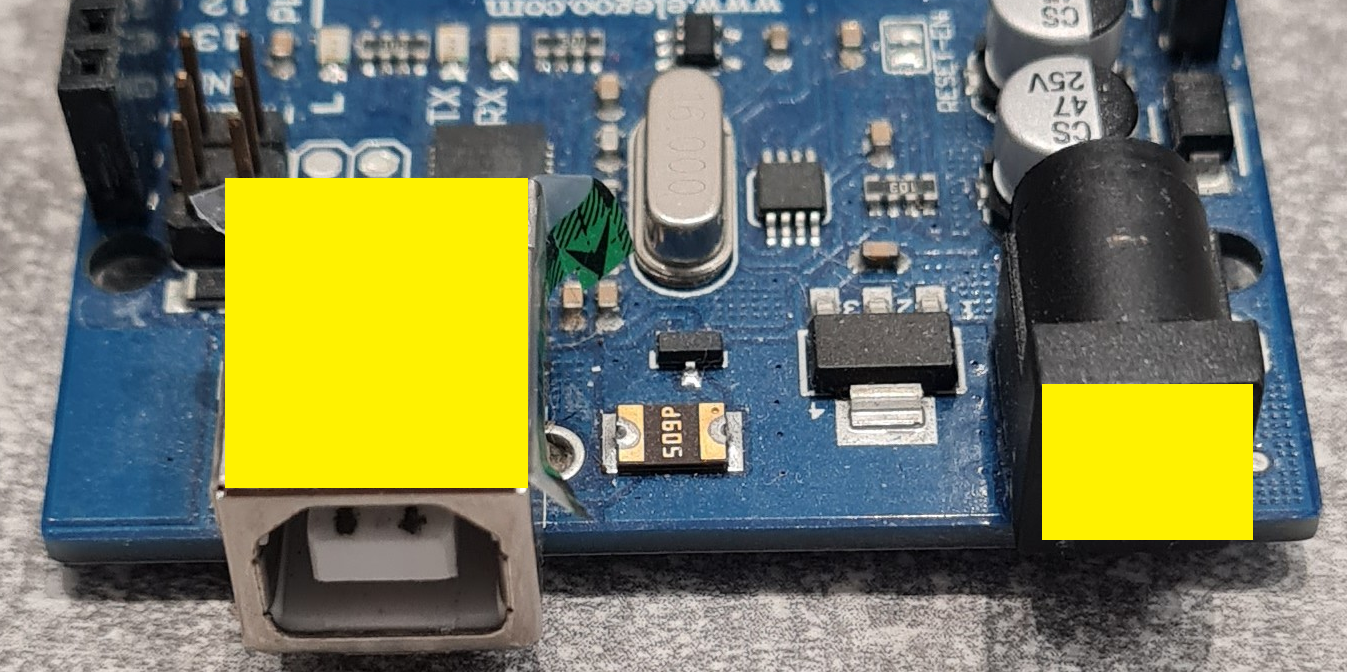
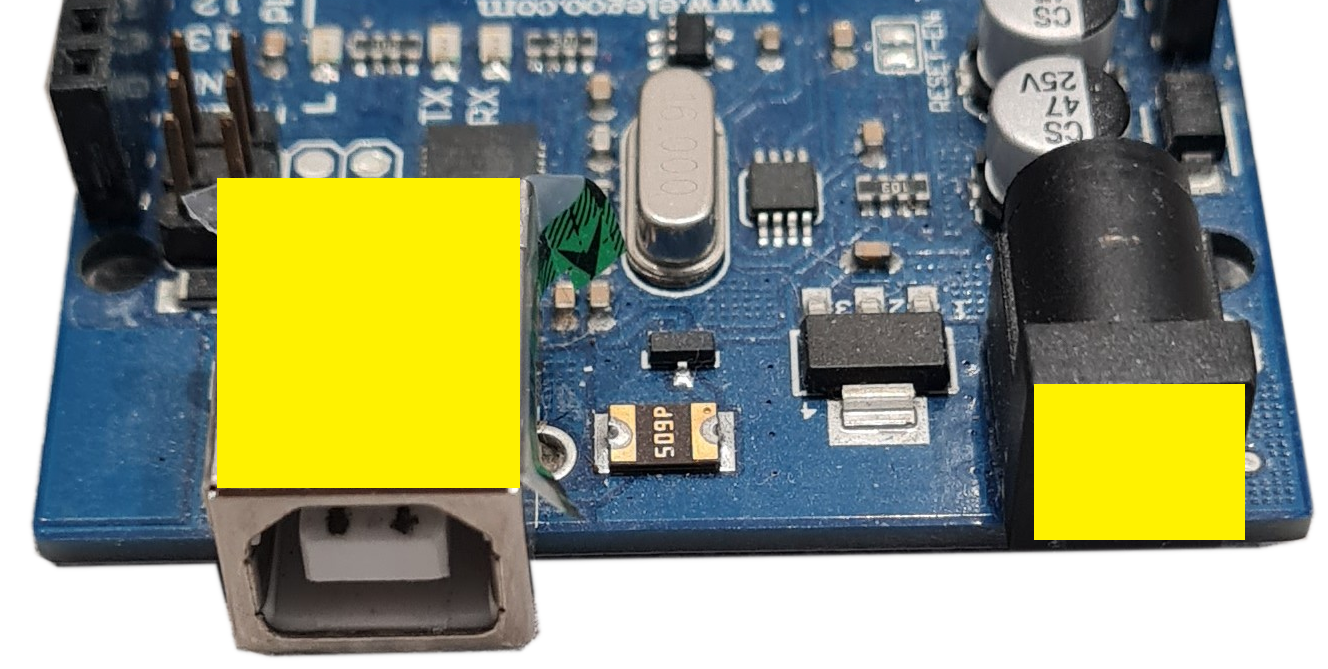
odds and ends

diff --git a/docs/_static/css/dccex_theme.css b/docs/_static/css/dccex_theme.css
@@ -748,3 +748,15 @@ a.external-link-icon::after {
 .gslide-image img {
     background: #00353d !important;
 }
+
+.glightbox-clean .gdesc-inner {
+    padding-top: 6px !important;
+    padding-right: 20px !important;
+    padding-bottom: 6px !important;
+    padding-left: 20px !important;
+}
+
+.glightbox-clean .gslide-title {
+    font-weight: 700 !important;
+    margin-bottom: 6px !important;
+}

diff --git a/docs/prepare-to-use/installer/install-cs.md b/docs/prepare-to-use/installer/install-cs.md
@@ -6,30 +6,30 @@ To proceed, click the Select your device button.
 
 ## Device Selection
 
-![device selection](/_static/images/ex-installer/select-device.png)
+![device selection](../../_static/images/ex-installer/select-device.png){ width=600px }
 
 A scan for devices will start automatically. Usually the installer is able to work out the details automatically.
 
-If you see No devices found it means that you either
+If you see No devices found it means that you either:
 
 - have not connected the device to the computer, connect it now then click the Scan for Devices button again
 - the device was not recognised by the computer, this may be a bad USB cable or a missing USB driver. Refer to the Diagnosing Basic Problems page for assistance.
 
-Next select the USB port (if several) and the type of device you wish to load the EX‑CommandStation software onto. EX‑Installer will attempt to work out both of these for you, but it may need assistance.
+Next select the USB port (if several) and the type of device you wish to load the **EX‑CommandStation** software onto. EX‑Installer will attempt to work out both of these for you, but it may need assistance.
 
 **NOTE:** For the EX‑CSB1 select 'DCC-EX EX-CSB1' from the drop-down list.
 
-Now press the Select Product To Install button and click on the EX‑CommandStation logo to proceed.
+Now press the Select Product To Install button and click on the **EX‑CommandStation** logo to proceed.
 
 ## Version Selection
 
-![select version](/_static/images/ex-installer/select-version.png)
+![select version](../../_static/images/ex-installer/select-version.png){ width=600px }
 
-Select which version of the EX‑CommandStation software to load onto your hardware. If you are unsure, or unless you have been otherwise directed by the support team, we recommend you select Latest Production.
+Select which version of the **EX‑CommandStation** software to load onto your hardware. If you are unsure, or unless you have been otherwise directed by the support team, we recommend you select Latest Production.
 
 ## Configuration
 
-![config](/_static/images/ex-installer/config.png)
+![config](../../_static/images/ex-installer/config.png){ width=600px }
 
 When loading for the first time, you should use Configure Options. Alternatively you may [reuse your previous files](#stored-configuration-files).
 
@@ -41,7 +41,7 @@ You must select the motor shield that you have installed. The installer can't de
 
 - For the EX‑CSB1 alone select 'EX-CSB1' or 'EXCSB1_WITH_EX8874' if you have added the optional [EX-MotorShield8874](../../products/ex-motorshield8874/ex-motorshield8874.md).
 
-![motor_driver](/_static/images/ex-installer/motor-driver.png)
+![motor_driver](../../_static/images/ex-installer/motor-driver.png){ width=600px }
 
 ## Other options
 
@@ -49,20 +49,20 @@ You should select "Disable EEPROM support" for most cases.
 
 ### Optional LCD or OLED display
 
-The EX‑CSB1 will generally be supplied with an OLED 128 X 64
+The **EX‑CSB1** will generally be supplied with an OLED 128 X 64
 
 If you have installed and optional OLED or LED display, enable [I have a display] option, which will present you with a drop-down list to select the type of display you have.
 
-![display-option](/_static/images/ex-installer/display-option.png)
+![display-option](../../_static/images/ex-installer/display-option.png){ width=600px }
 
 ### Optional Wi-fi
 
 If you are using an **EX-CSB1** or other board with integrated Wi-Fi, or have installed and optional Wi-Fi board you need to enable the `I have Wi-Fi`.
-This enables the "Wi-fi Options" button where you can configure the Wi-Fi.
+This enables the 'Wi-fi Options' button where you can configure the Wi-Fi.
 
 ### Wi-Fi Access Point mode
 
-![wifi AP](/_static/images/ex-installer/wifi-ap.png)
+![wifi AP](../../_static/images/ex-installer/wifi-ap.png){ width=600px }
 
 In Access Point mode, your **EX-CommandStation** runs a completely isolated Wi-Fi Network. This is most useful if your layout is away from the house, or you transport your layout frequently, or do not want to give guests access to your home Wi-Fi. Wi-Fi phones or tablets will need to connect their Wi-Fi to the Access Point and will lose access to your home Wi-Fi.
 Wi-Fi Password is optional.
@@ -74,7 +74,7 @@ Wi-Fi Channel can be any value from 1-11.
 
 #### Wi-Fi Station mode
 
-![wifi station](/_static/images/ex-installer/wifi-station.png)
+![wifi station](../../_static/images/ex-installer/wifi-station.png){ width=600px }
 
 In Station mode, the CommandStation connects to your existing home Wi-Fi Network or other router.
 Phone and Tablet throttles on your home network can find the CommandStation easily.
@@ -87,46 +87,46 @@ Additionally, if you choose, you may customise the Wi-Fi hostname, or leave it a
 
 ### Optional Ethernet
 
-If you have installed and Ethernet board, select this option.
+If you have installed and [Ethernet board](../../diy/ethernet.md), select this option.
 
 Note that it is not possible to have both Wi-Fi and Ethernet enabled at the same time.
 
 ### Start With Power On
 
-![power-on](/_static/images/ex-installer/power-on.png)
+![power-on](../../_static/images/ex-installer/power-on.png){ width=600px }
 
-The EX‑CSB1 will generally be supplied with this enabled.
+The **EX‑CSB1** will generally be supplied with this enabled.
 
 If you don't enable this, you will need to turn the track power with your controller, or with TrackManger automations.
 
 ### Override Current Limit (Advanced)
 
-Do not select without Engineer level knowledge.
+Do not select without Engineer level knowledge.  (==TODO== MEDIUM link to page explaining 'Override Current Limit')
 
 ### Set Track Modes (Advanced)
 
-![track manager](/_static/images/ex-installer/track-manager.png)
+![track manager](../../_static/images/ex-installer/track-manager.png){ width=600px }
 
-The default has Track A and DCC MAIN  and Track B as a PROG track.
+The default has Track A and DCC MAIN and Track B as a PROG track.
 This is an advanced option and should only be used do not need to alter this unless you are running multiple motor shields or wish to operate only in DC.
 
 ### Advanced Configuration (Optional)
 
 Skip this page when you first start. You will need it later once you start adding accessories or automations.
 
-Note there is an additional option Create myAutomation.h that allows a blank myAutomation.h file to be created, which you can edit on the following Advanced Config screen. Leaving this option disabled means a myAutomation.h file will not be generated if it is not required, which saves memory on your EX‑CommandStation device.
+Note there is an additional option Create myAutomation.h that allows a blank ``myAutomation.h`` file to be created, which you can edit on the following Advanced Config screen. Leaving this option disabled means a myAutomation.h file will not be generated if it is not required, which saves memory on your EX‑CommandStation device.
 
 ## Compile and Load
 
-![load](/_static/images/ex-installer/load.png)
+![load](../../_static/images/ex-installer/load.png){ width=600px }
 
 This proceeds to compile your configuration in with the base code and load it into the **EX-CommandStation** Arduino processor.
 
-There may be errors compiling (usually due to a mistake in the advanced configuration or myAutomation.h) and this will prevent the load stage from taking place.
+There may be errors compiling (usually due to a mistake in the advanced configuration or ``myAutomation.h``) and this will prevent the load stage from taking place.
 
-![loaded](/_static/images/ex-installer/loaded.png)
+![loaded](../../_static/images/ex-installer/loaded.png){ width=600px }
 
-Errors during the load stage are almost invariably caused by problems communicating with the Arduino, possibly by incorrect selection of the type or by having another program, such as JMRI or EX-Webthrottle still using the USB connection.
+Errors during the load stage are almost invariably caused by problems communicating with the Arduino, possibly by incorrect selection of the type or by having another program, such as JMRI or **EX-WebThrottle** still using the USB connection.
 
 ## Backup
 
@@ -135,11 +135,11 @@ You will be prompted to select a folder, and if the chosen folder already contai
 
 ## Device Monitor
 
-Once you have selected a device in EX‑Installer on the "Select your device" screen, or after successfully loading software onto your device, a View device monitor button will be available.
+Once you have selected a device in **EX‑Installer** on the "Select your device" screen, or after successfully loading software onto your device, a View device monitor button will be available.
 
 When clicking this button, the **EX-Installer** Device Monitor window will open, allowing you to interact with your device by sending commands and viewing the serial console output.
 
-![device monitor](/_static/images/ex-installer/device-monitor.png)
+![device monitor](../../_static/images/ex-installer/device-monitor.png){ width=600px }
 For further details on using **EX-Installer** Device Monitor, continue on to the next page with the 'Next' button, or go straight to Using the **EX-Installer** Device Monitor.
 
 Next Steps - Test your setup
@@ -148,16 +148,16 @@ Next Steps - Test your setup
 
     The programming track is for programming only. Make sure you are on the main track if you expect your loco to move or respond to light or sound commands.
 
-See the Testing your installation page or click the 'Next' button to learn how to test and use your EX‑CommandStation.
+See the Testing your installation page or click the 'Next' button to learn how to test and use your **EX‑CommandStation**.
 
 ## Stored Configuration Files
 
-Click the Browse button and navigate through your computer's folders and files to select any file in the folder containing your existing configuration.
+Click the ``Browse`` button and navigate through your computer's folders and files to select any file in the folder containing your existing configuration.
 
 On this screen you can edit the configuration files. If you have more than two files to edit, they will be separated into tabs as shown in the second figure above.
 
-**NOTE:** If you did not enable any options requiring myAutomation.h, and did not enable Create myAutomation.h, you will only be able to edit config.h on this screen.
+**NOTE:** If you did not enable any options requiring myAutomation.h, and did not enable Create ``myAutomation.h``, you will only be able to edit ``config.h`` on this screen.
 
-![stored_files](../../_static/images/ex-installer/stored-files.png)
+![stored_files](../../_static/images/ex-installer/stored-files.png){ width=600px }
 
 --8<-- "snippets/abbr.md"

diff --git a/docs/purchasing/official-sellers.md b/docs/purchasing/official-sellers.md
@@ -20,33 +20,33 @@ The suppliers listed on this page work with the **DCC-EX** team to ensure these 
 
 ----
 
-## ![USA Flag](../_static/images/icons/flag_us_small.png) In the United States serving USA, Canada, & Mexico
+## ![USA Flag](../_static/images/icons/flag_us_small.png){ .off-glb } In the United States serving USA, Canada, & Mexico
 
 - [DCC-EX Store](https://store.dcc-ex.com/)
 - [Smart Hobby, LLC](https://www.smarthobbyllc.com/)
 
 ---
 
-## ![Canada Flag](../_static/images/icons/flag_canada_small.png) In Canada serving Canada and the United States
+## ![Canada Flag](../_static/images/icons/flag_canada_small.png){ .off-glb } In Canada serving Canada and the United States
 
 - [DCDCC Supply Canada](https://dccsc.ca/)
 
 ---
 
-## ![UK Flag](../_static/images/icons/flag_uk_small.png) In England serving the UK
+## ![UK Flag](../_static/images/icons/flag_uk_small.png){ .off-glb } In England serving the UK
 
 - [Chesterfield Model Making and Miniature Electronics](https://chesterfield-models.co.uk/product-category/dcc-ex/) (Chesterfield also sells cases for DIY builds)
 - [ACI Model Railways](https://acimodelrailways.co.uk/)
 
 ---
 
-## ![Austrian Flag](../_static/images/icons/flag_austria_small.png) In Austria serving the European Union (EU)
+## ![Austrian Flag](../_static/images/icons/flag_austria_small.png){ .off-glb } In Austria serving the European Union (EU)
 
 - [Model Railway Electronics powered by Semify](https://www.mrw-electronics.com/)
 
 ---
 
-## ![Australian Flag](../_static/images/icons/flag_australia_small.png) In Australia serving AU, NZ, and APAC
+## ![Australian Flag](../_static/images/icons/flag_australia_small.png){ .off-glb } In Australia serving AU, NZ, and APAC
 
 - [Millennium Engineering Pty Ltd](https://www.milleng.com.au/)
 - [Buckambool Model Trains](https://bmodeltrains.com/product-category/dcc-ex-command-stations/)

diff --git a/docs/reference/wiring/i2C/i2c-wiring.md b/docs/reference/wiring/i2C/i2c-wiring.md
@@ -51,4 +51,4 @@ This table shows the parallel resistance values with multiple I2C modules:
 
 - A separate power source for the VCC pin of the I2C bus avoids potential voltage spikes/sags and noise into the power circuit of the microprocessor, and should make the I2C accessory bus more resilient.
 - Additional/separate power source is required for the +5V servo power on the PCA9685 module.
-- When using separate power sources, there is potential for a ground loop. ==TODO==
+- When using separate power sources, there is potential for a ground loop. ( ==TODO== MEDIUM - What does that mean? What are the implications?)

diff --git a/docs/reference/serial-commands/serial-command-ff_not_in_nav.md b/docs/reference/serial-commands/serial-command-ff_not_in_nav.md
@@ -33,7 +33,7 @@ Serial command to turn loco decoder functions ON or OFF or set the DC PWM freque
         * ``1`` = on
         * ``0`` = off
 * If **DCCFREQ** plus **«freqValue»** are supplied - to set the PWM frequency
-    * **«freqValue»** = one of: ==TODO== What is the format of the parameters?
+    * **«freqValue»** = one of: () ==TODO== What is the format/options for this parameter? )
         * ??? = Mid frequency - 490Hz
         * ??? = High frequency - 3400Hz
         * ??? = Supersonic - 62500Hz

diff --git a/docs/support/ex-csb1/ex-csb1-full-guide.md b/docs/support/ex-csb1/ex-csb1-full-guide.md
@@ -442,13 +442,13 @@ To discuss just one of those options, which will likely be the easiest to do if 
 
 ### USB Connection to JMRI
 
-==TODO== HIGH - USB Connection to JMRI
+==TODO== MEDIUM - USB Connection to JMRI for the EX-CSB1
 
 ## Connecting Optional Devices and Accessories
 
 ### Integrated displays
 
-==TODO== MEDIUM - Integrated displays
+==TODO== MEDIUM - Integrated displays for the EX-CSB1
 
 #### I2C Accessories
 

diff --git a/docs/prepare-to-use/installer/platformio.md b/docs/prepare-to-use/installer/platformio.md
@@ -2,6 +2,6 @@
 
 Not recommended for inexperienced users.  For inexperienced users we recommend using the [**EX-Installer**](index.md).
 
-==TODO== - provide setup help.
+==TODO== - provide setup help for VSC/PlatformIO.
 
 --8<-- "snippets/abbr.md"

diff --git a/docs/news/articles/20261021b.md b/docs/news/articles/20261021b.md
@@ -2,7 +2,7 @@
 date: 2026-10-11
 draft: false
 authors:
-  - flash62au
+  - dcc-ex
 categories:
   - General DCC-EX News
   - EX-CommandStation
